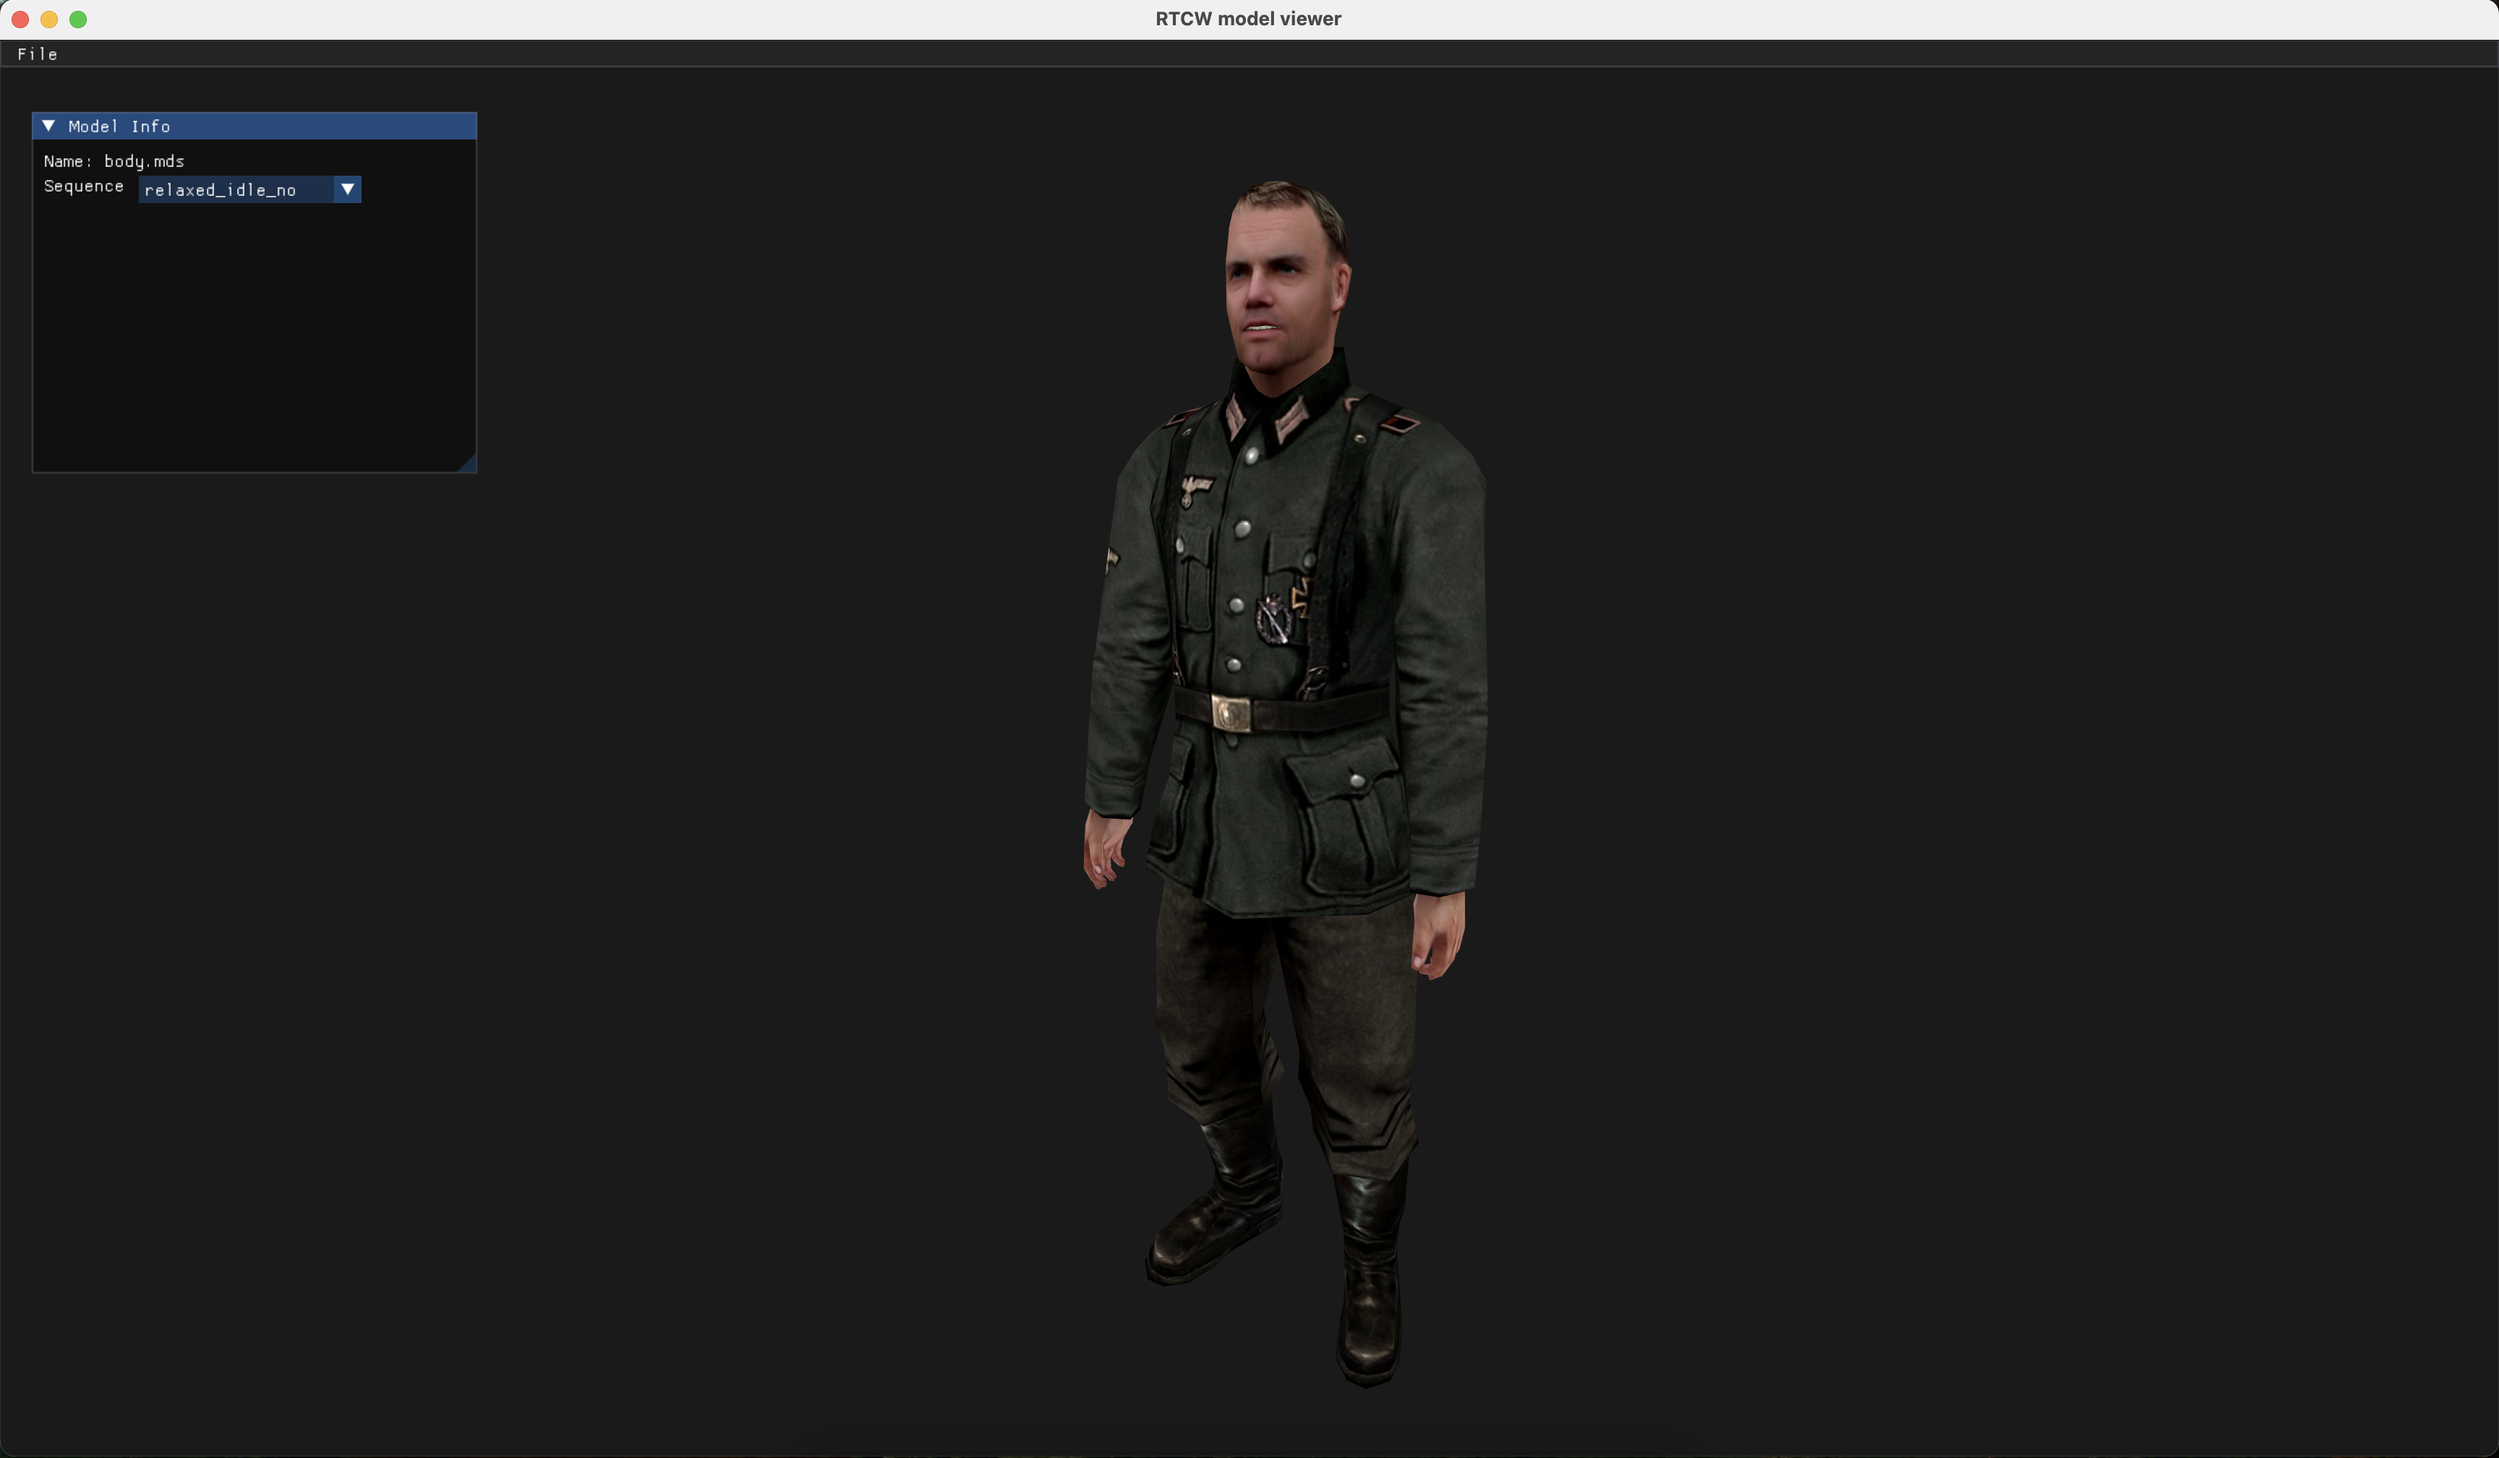
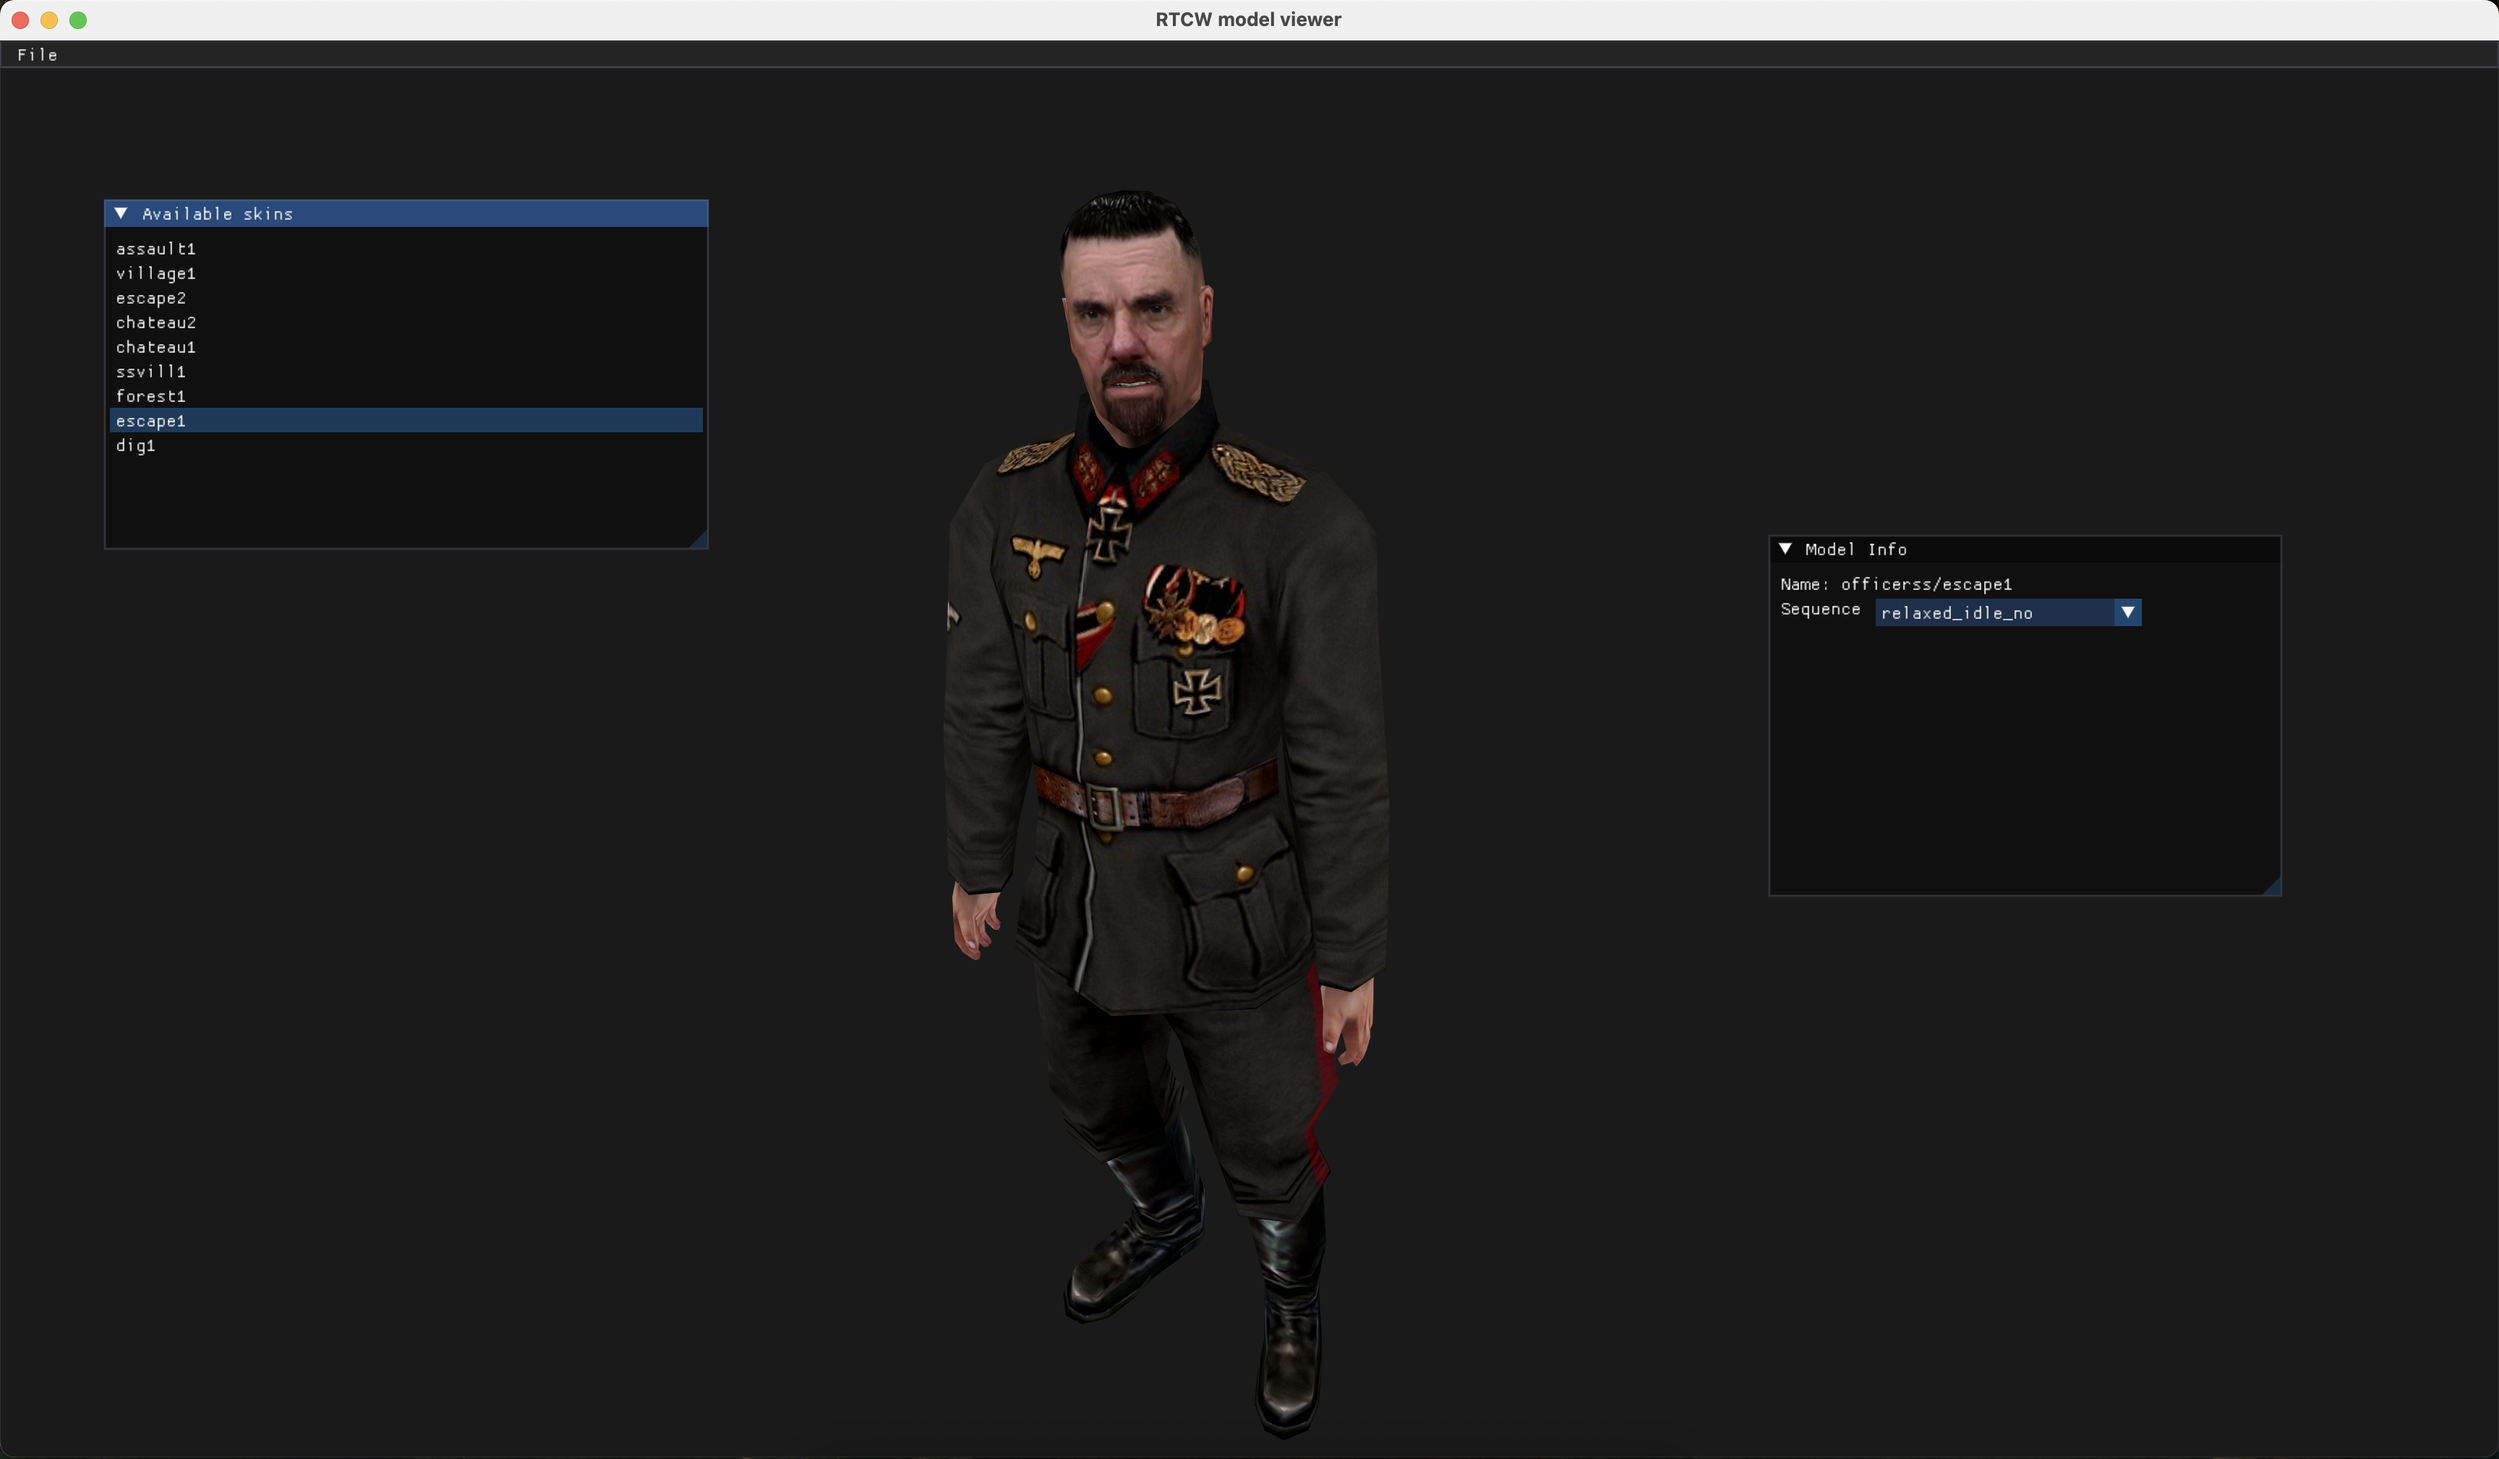
Support different skins

diff --git a/src/Renderer.cpp b/src/Renderer.cpp
@@ -28,6 +28,9 @@
 
 #include <imgui.h>
 
+#include <filesystem>
+#include <unordered_set>
+
 Renderer::Renderer()
 {
 }
@@ -73,6 +76,79 @@ MD3Model md3;
 std::vector<AnimationEntry> wolfanim;
 int seqIndex = 0;
 
+namespace fs = std::filesystem;
+
+std::string selectedFolder;
+std::vector<std::string> skinNames;
+std::string currentSelectedSkin;
+bool showMissingMdsMessage = false;
+
+void ScanSkinFolder(const std::string& folderPath)
+{
+    skinNames.clear();
+    
+    bool folderHasBodyMds = fs::exists(folderPath + "/body.mds");
+    showMissingMdsMessage = !folderHasBodyMds;
+    
+    if (!folderHasBodyMds) return;
+    
+    std::unordered_set<std::string> bodySkins;
+    std::unordered_set<std::string> headSkins;
+    
+    for (const auto& entry : fs::directory_iterator(folderPath)) {
+        if (!entry.is_regular_file()) continue;
+        std::string filename = entry.path().filename().string();
+        
+        if (filename.starts_with("body_") && filename.ends_with(".skin")) {
+            std::string skin = filename.substr(5, filename.size() - 10); // 5 = strlen("body_"), 10 = strlen("body_") + strlen(".skin")
+            bodySkins.insert(skin);
+        } else if (filename.starts_with("head_") && filename.ends_with(".skin")) {
+            std::string skin = filename.substr(5, filename.size() - 10);
+            headSkins.insert(skin);
+        }
+    }
+    
+    // Найти общие имена скинов
+    for (const auto& skin : bodySkins) {
+        if (headSkins.count(skin)) {
+            skinNames.push_back(skin);
+        }
+    }
+}
+
+std::string resolvePath(const std::string& filename, const std::vector<std::string>& extensions);
+
+void Renderer::LoadSkinPair(const std::string& folder, const std::string& skinName)
+{
+    std::string animPath = folder + "/wolfanim.cfg";
+    wolfanim = parseWolfAnimFile(animPath);
+    
+    std::string bodyMDSPath = folder + "/body.mds";
+    mds.loadFromFile(bodyMDSPath);
+    
+    std::string bodySkinPath = folder + "/body_" + skinName + ".skin";
+    auto bodySkin = parseSkinFile(bodySkinPath);
+    
+    std::string headSkinPath = folder + "/head_" + skinName + ".skin";
+    auto headSkin = parseSkinFile(headSkinPath);
+    
+    auto headMD3path = folder + "head.mdc";
+    
+    if (headSkin.attachments.contains("md3_part"))
+    {
+        headMD3path = folder + headSkin.attachments["md3_part"];
+    }
+    
+    headMD3path = resolvePath(headMD3path, {".mdc"});
+    md3.loadFromFile(headMD3path);
+    
+    mds.name_ = fs::path(folder).parent_path().filename() / skinName;
+    
+    setModel(mds, md3, bodySkin, headSkin);
+}
+
+void selectFolder(std::function<void (std::string)> callback);
+
 void Renderer::imgui_draw()
 {
     if (ImGui::BeginMainMenuBar())
@@ -81,28 +157,10 @@ void Renderer::imgui_draw()
         {
             if (ImGui::MenuItem("Open", "Ctrl+O"))
             {
-                openFile([this](std::string filename) {
-
-                    std::filesystem::path mds_path(filename);
-                    auto folder = mds_path.parent_path();
-                    
-                    auto head_path = folder / "head.mdc";
-                    auto wolfanim_path = folder / "wolfanim.cfg";
-                    
-                    auto body_skin_path = folder / "body_default.skin";
-                    auto head_skin_path = folder / "head_default.skin";
-                    
-                    auto body_skin = parseSkinFile(body_skin_path);
-                    auto head_skin = parseSkinFile(head_skin_path);
-                    
-                    wolfanim = parseWolfAnimFile(wolfanim_path);
-                    
-                    mds.loadFromFile(filename);
-                    md3.loadFromFile(head_path);
-                    
-                    setModel(mds, md3, body_skin, head_skin);
-                    
-                }, "*.mds");
+                selectFolder([this](std::string path) {
+                    selectedFolder = path;
+                    ScanSkinFolder(path);
+                });
             }
 
             if (ImGui::MenuItem("Exit")) {
@@ -111,6 +169,40 @@ void Renderer::imgui_draw()
             ImGui::EndMenu();
         }
         ImGui::EndMainMenuBar();
+    }
+    
+    if (showMissingMdsMessage)
+    {
+        ImGui::OpenPopup("###alert");
+        showMissingMdsMessage = false;
+    }
+    
+    if (ImGui::BeginPopupModal("ERROR###alert", nullptr, ImGuiWindowFlags_AlwaysAutoResize))
+    {
+        ImGui::Text("Missing 'body.mds' in selected folder!");
+        ImGui::Spacing();
+        
+        if (ImGui::Button("OK", ImVec2(60, 0))) {
+            ImGui::CloseCurrentPopup();
+        }
+        ImGui::EndPopup();
+    }
+    
+    if (!selectedFolder.empty())
+    {
+        if (ImGui::Begin("Available skins###skins"))
+        {
+            for (const auto& skin : skinNames)
+            {
+                if (ImGui::Selectable(skin.c_str(), currentSelectedSkin == skin))
+                {
+                    currentSelectedSkin = skin;
+                    LoadSkinPair(selectedFolder, skin);
+                }
+            }
+            
+            ImGui::End();
+        }
     }
     
     if (m_pmodel == nullptr) return;
@@ -155,16 +247,16 @@ void Renderer::imgui_draw()
     }
 }
 
-void Renderer::openFile(std::function<void (std::string)> callback, const char* filter)
+void selectFolder(std::function<void (std::string)> callback)
 {
-    std::thread([callback, filter]() {
+    std::thread([callback]() {
         
-        const char* filename = tinyfd_openFileDialog(nullptr, nullptr, 1, &filter, nullptr, 0);
+        const char* path = tinyfd_selectFolderDialog(nullptr, nullptr);
         
-        if (filename != nullptr)
+        if (path != nullptr)
         {
-            MainQueue::instance().async([callback, filename] () {
-                callback(filename);
+            MainQueue::instance().async([callback, path] () {
+                callback(path);
             });
         }
         

diff --git a/src/RenderableModel.cpp b/src/RenderableModel.cpp
@@ -36,41 +36,31 @@ RenderableModel::~RenderableModel()
 #define VERT_TEX_COORD_LOC 2
 #define VERT_BONE_INDEX_LOC 3
 
-std::string resolvePath(const std::string& filename)
+std::string resolvePath(const std::string& filename, const std::vector<std::string>& extensions)
 {
     namespace fs = std::filesystem;
     
     fs::path originalPath(filename);
     
-    // Если файл существует с указанным именем — возвращаем его
-    if (fs::exists(originalPath))
-        return filename;
+    if (originalPath.has_extension() && fs::exists(originalPath)) return filename;
     
-    // Список допустимых расширений
-    static const std::vector<std::string> alternativeExtensions = {
-        ".tga", ".jpg"
-    };
-    
-    // Путь без расширения
     fs::path basePath = originalPath;
-    basePath.replace_extension(); // удаляет текущее расширение
+    basePath.replace_extension();
     
-    for (const auto& ext : alternativeExtensions)
+    for (const auto& ext : extensions)
     {
         fs::path testPath = basePath;
         testPath.replace_extension(ext);
         
-        if (fs::exists(testPath))
-            return testPath.string();
+        if (fs::exists(testPath)) return testPath.string();
     }
     
-    // Ничего не найдено — возвращаем пустую строку или исходное имя
     return "";
 }
 
 GLuint loadTexture(std::string filename)
 {
-    filename = resolvePath(filename);
+    filename = resolvePath(filename, {".tga", ".jpg"});
     
     if (filename.empty()) return 0;
     
@@ -107,6 +97,10 @@ auto g_textures = std::unordered_map<std::string, GLuint>();
 
 void RenderableModel::init(const MDSModel& mds, const MD3Model& md3, const SkinFile &bodySkin, const SkinFile &headSkin)
 {
+    startFrame = 0;
+    numFrames = 1;
+    fps = 15;
+    
     shader.init("assets/shaders/md3.glsl");
     
     for (const auto& [mesh, texture] : bodySkin.textures)

diff --git a/src/Renderer.h b/src/Renderer.h
@@ -38,5 +38,5 @@ private:
     bool isPlayerView = false;
     glm::vec3 weaponOffset = {0, 0, 0};
     
-    void openFile(std::function<void(std::string)> callback, const char* filter);
+    void LoadSkinPair(const std::string& folder, const std::string& skinName);
 };

diff --git a/README.md b/README.md
@@ -6,13 +6,16 @@ Features:
 - ✅ read .mds
 - ✅ read .mdc (only head)
 - ✅ read wolfanim.cfg
-- ✅ read .skin-files
+- ✅ select .skin-files
 - ✅ simple CPU-skinning animation
 
 ## PREVIEW
 ![screenshot](https://github.com/tanelxen/rtcw-mds-viewer/blob/master/screenshots/screenshot1.png)
 
+## HOW TO USE
+It works only with extracted assets. Just select folder in player dir. Then select skin.
+
 ## TODO
 - [ ] on GPU skinning
 - [ ] support more tags
-- [ ] select skins
+- [ ] support .pk3-archives
